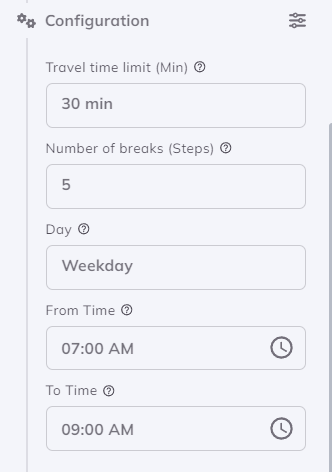
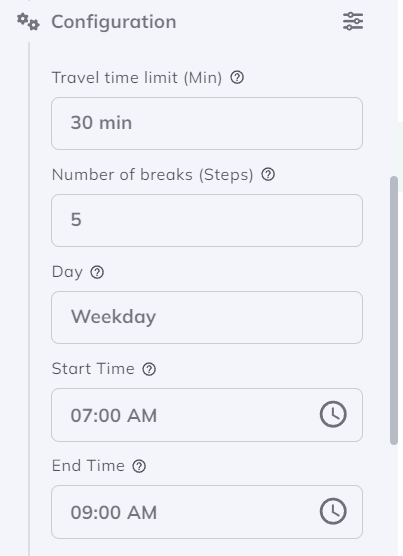
updates on catchments

diff --git a/docs/toolbox/accessibility_indicators/catchments.md b/docs/toolbox/accessibility_indicators/catchments.md
@@ -256,7 +256,7 @@ For further insights into the Routing algorithm, visit [Routing/Public Transport
 
 <div class="step">
   <div class="step-number">5</div>
-  <div class="content">Set the configurations for <code>Travel time limit</code>, <code>Number of breaks</code>, <code>Day</code> <i>(Weekday, Saturday</i> or <i>Sunday</i>) and Time period (<code>From time</code> and <code>To time</code>).</div>
+  <div class="content">Set the configurations for <code>Travel time limit</code>, <code>Number of breaks</code>, <code>Day</code> <i>(Weekday, Saturday</i> or <i>Sunday</i>) and Time period (<code>Start Time</code> and <code>End Time</code>).</div>
 </div>
 
 <img src={require('/img/toolbox/accessibility_indicators/catchments/pt_config.png').default} alt="Public Transport Configurations" style={{ maxHeight: "400px", maxWidth: "400px"}}/>
@@ -274,7 +274,7 @@ Per default, the catchment areas are calculated in polygon shape. In case you wa
 
 <div class="step">
   <div class="step-number">6</div>
-  <div class="content">Click on <b>options button</b> <img src={require('/img/map/styling/options_icon.png').default} alt="Options Icon" style={{ maxHeight: "25px", maxWidth: "25px", objectFit: "cover"}}/>. Here you can select the <code> Catchment area shape</code>. For public transport, you can choose between <b>Polygon</b> and <b>Rectangular Grid</b>.</div>
+  <div class="content">Click on <b>options button</b> <img src={require('/img/map/styling/options_icon.png').default} alt="Options Icon" style={{ maxHeight: "25px", maxWidth: "25px", objectFit: "cover"}}/>. Here you can select the <code> Catchment area shape</code>. You can choose between <b>Polygon</b>, <b>Network</b> and <b>Rectangular Grid</b>.</div>
 </div>
 
   </TabItem>
@@ -322,7 +322,7 @@ If you enable **Polygon Difference**, only the "incremental" (or differential) p
   </TabItem>
 </Tabs>
 
-### Starting
+### Starting Points
 
 <div class="step">
   <div class="step-number">7</div>
